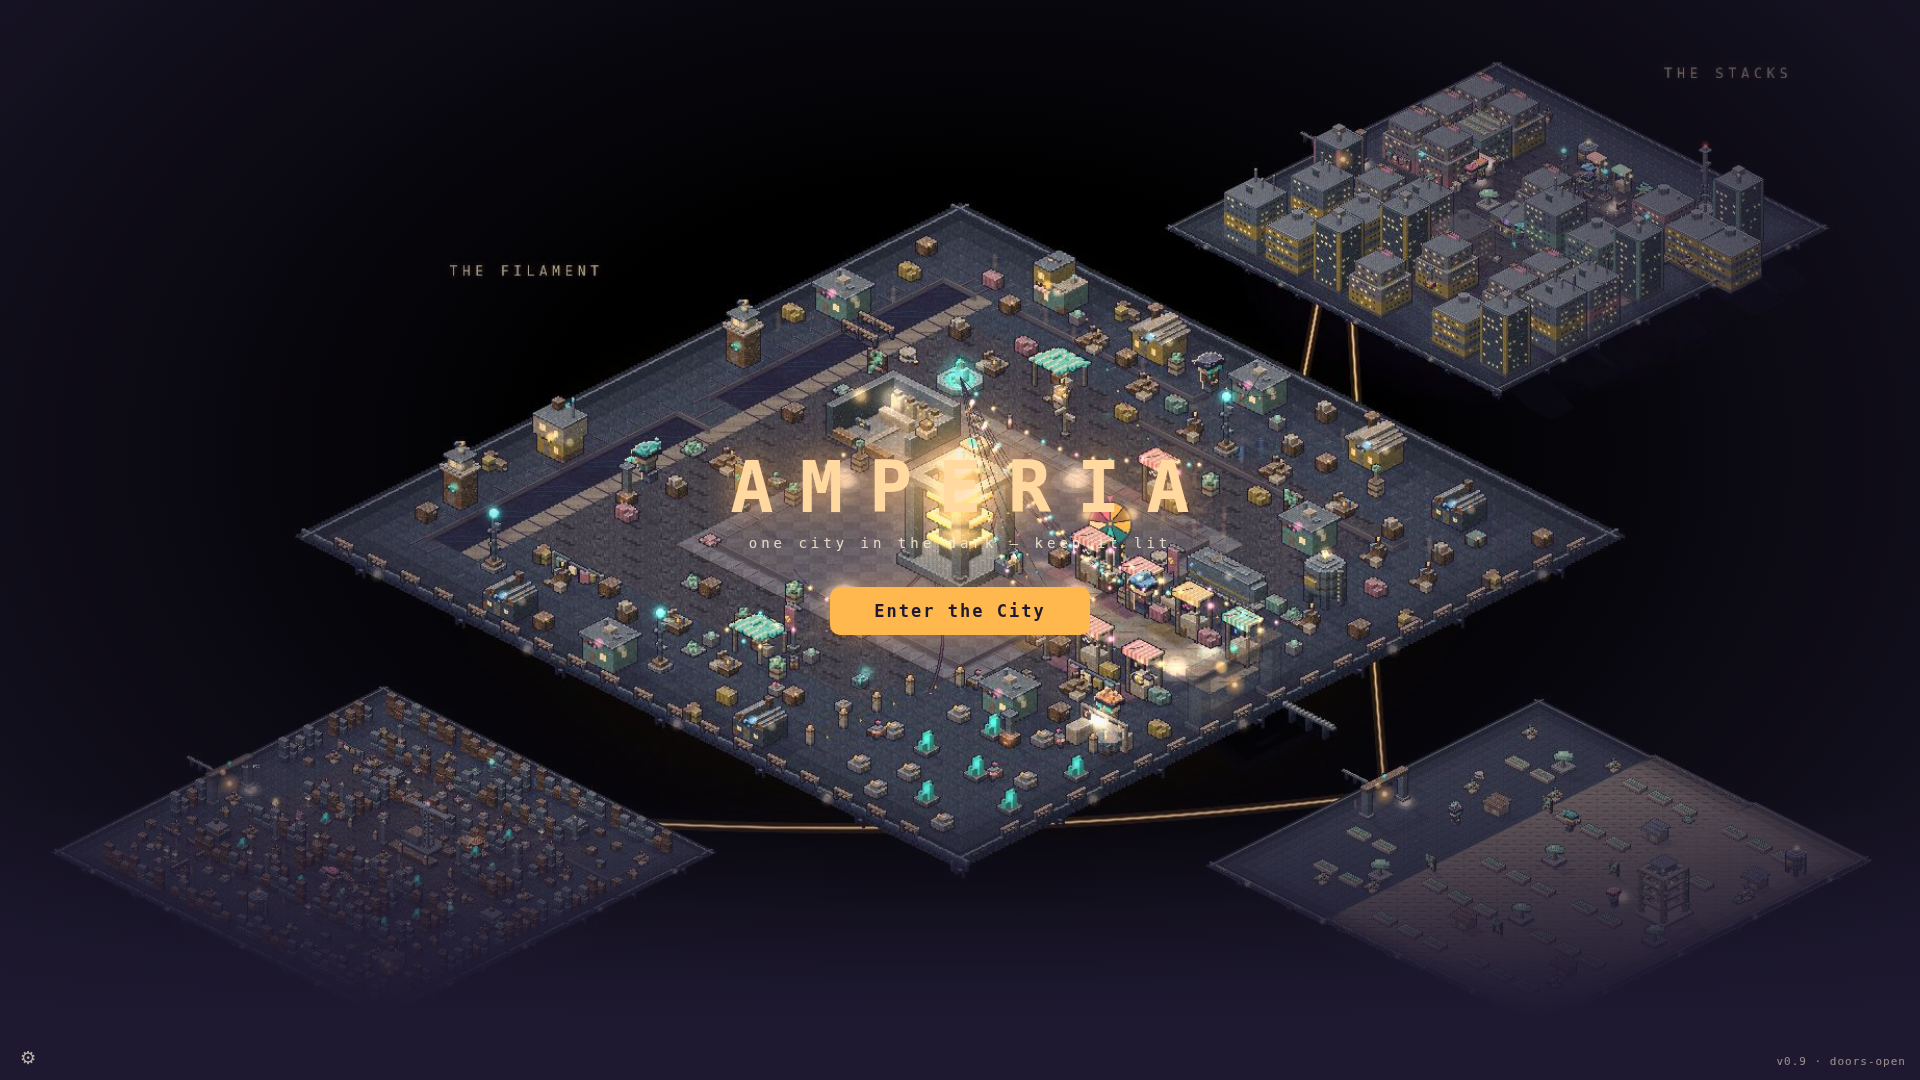
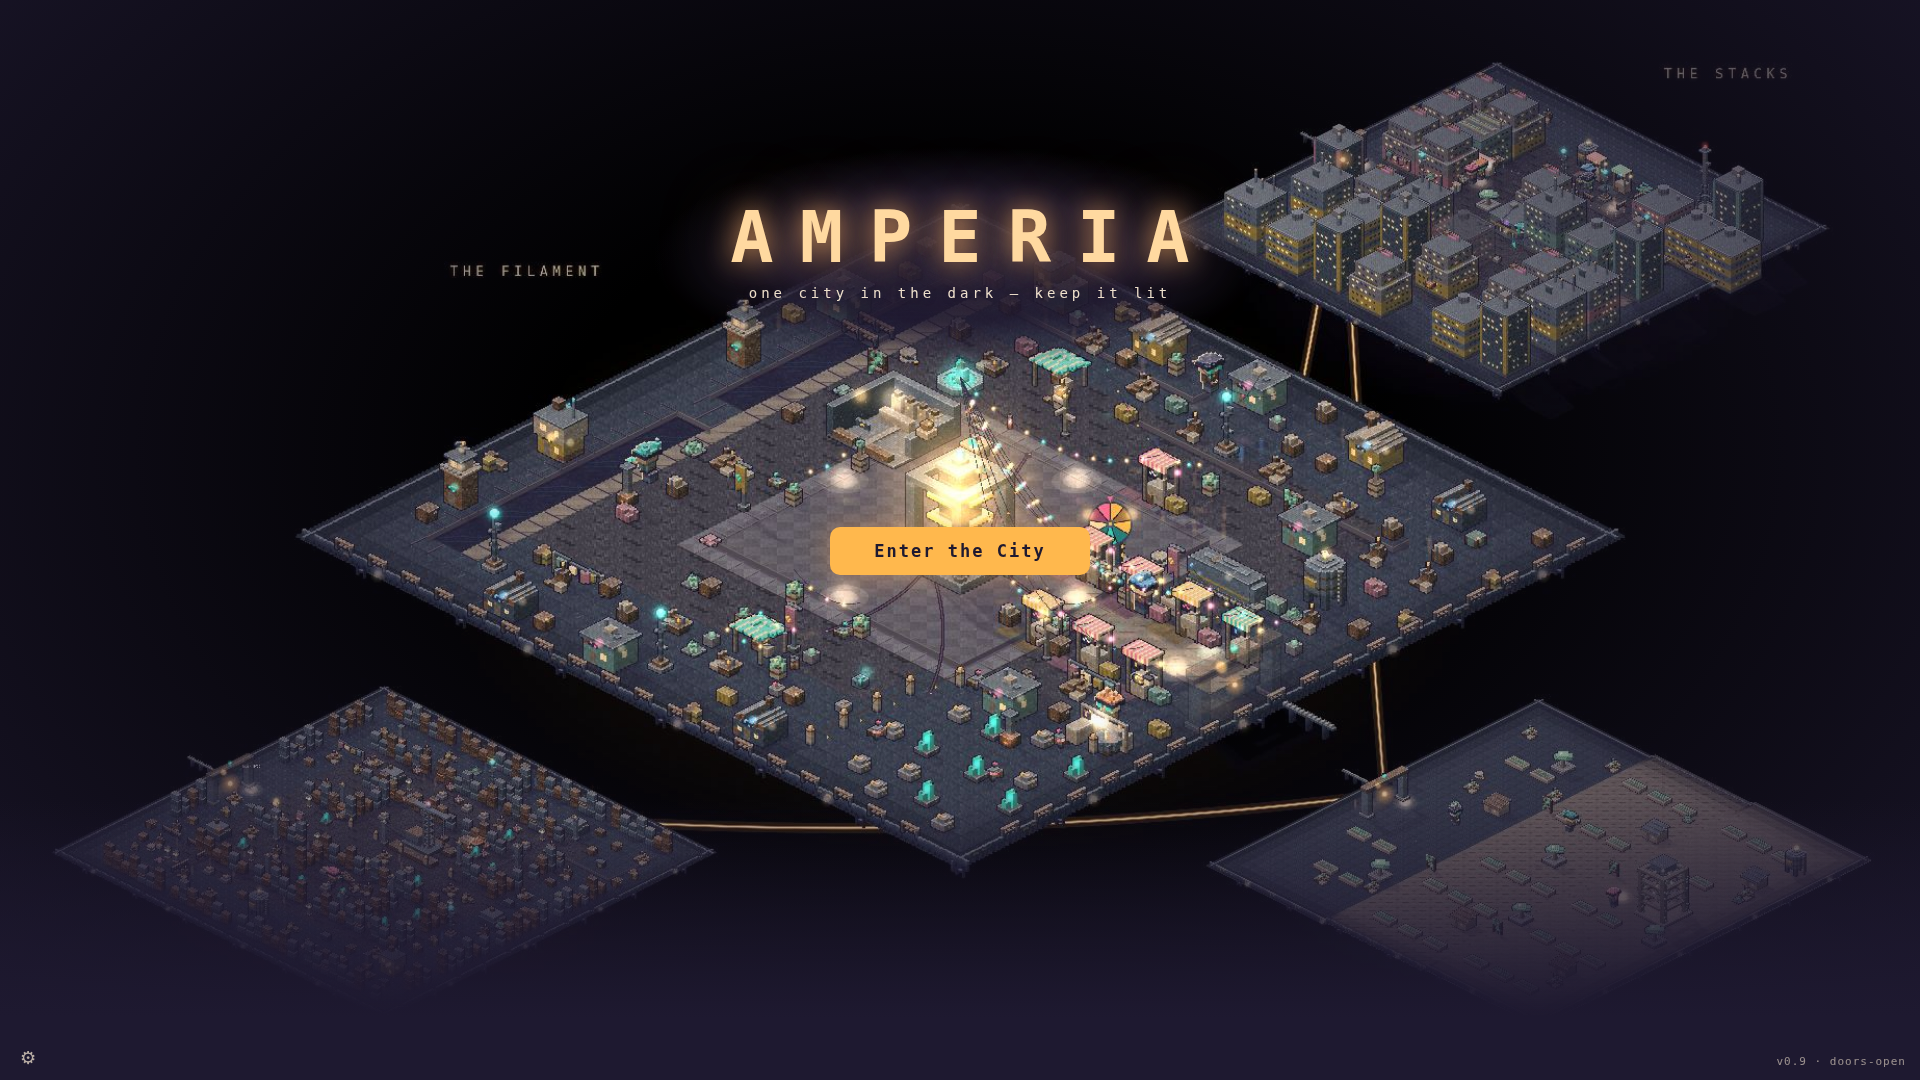
Title wordmark legibility + Roofline vista hero (closes the polish arc)
Title: the AMPERIA wordmark + tagline were vertically centred dead over
the Filament Dynamo's glow — the bright core washed the 'E' out ('AMP_RIA')
and drowned the tagline. Lift the wordmark into the dark void above the
islands with its own radial ink scrim behind it, so the hero reads clean
against dark like the landing page — whatever's behind it. The Enter
button + form stay centred. Reshot title.png.

Vista: restaged roofline-vista.png as a hero — the Spark posed at the
guardrail on the Roofline rim, framed dead-centre gazing out over the
rooftop market and the canyon streets falling away below.

Claude-Session: https://claude.ai/code/session_01XjNBm2pGRzkbLq2zekKpTV

Changed region(s): [[0.375, 0.3972, 0.625, 0.6111], [0.375, 0.1528, 0.625, 0.3361], [0.2812, 0.2444, 0.3125, 0.275]]

diff --git a/client/src/ui/loginOverlay.ts b/client/src/ui/loginOverlay.ts
@@ -67,6 +67,37 @@ export function showLoginOverlay(): Promise<AuthResponse> {
       `background:linear-gradient(to bottom, transparent, ${PALETTE.ink} 78%)`,
     ].join(';');
 
+    // The hero band: the wordmark + tagline ride UP in the dark void above
+    // the islands, never over the Dynamo's glow (which washed the 'E' out of
+    // AMPERIA and drowned the tagline). Its own dark scrim keeps the text
+    // clean against ink like the landing-page hero, whatever's behind it.
+    const hero = document.createElement('div');
+    hero.style.cssText = [
+      'position:absolute',
+      'left:0',
+      'right:0',
+      'top:0',
+      'height:46%',
+      'display:flex',
+      'flex-direction:column',
+      'align-items:center',
+      'justify-content:center',
+      'gap:10px',
+      'pointer-events:none',
+    ].join(';');
+    const heroScrim = document.createElement('div');
+    heroScrim.style.cssText = [
+      'position:absolute',
+      'left:50%',
+      'top:52%',
+      'transform:translate(-50%,-50%)',
+      'width:900px',
+      'max-width:96%',
+      'height:300px',
+      `background:radial-gradient(ellipse 46% 50% at 50% 50%, ${PALETTE.ink}F2 0%, ${PALETTE.ink}D9 42%, transparent 74%)`,
+      'pointer-events:none',
+    ].join(';');
+
     const center = document.createElement('div');
     center.style.cssText = [
       'position:absolute',
@@ -88,9 +119,11 @@ export function showLoginOverlay(): Promise<AuthResponse> {
       'text-indent:26px',
       'animation:amperia-glowpulse 5s ease-in-out infinite',
     ].join(';');
+    // Position over the scrim (both live in `hero`).
+    title.style.position = 'relative';
     const sub = document.createElement('div');
     sub.textContent = 'one city in the dark — keep it lit';
-    sub.style.cssText = `color:${UI_TEXT_WARM};opacity:.85;font-size:14px;letter-spacing:4px;margin-top:-8px;`;
+    sub.style.cssText = `position:relative;color:${UI_TEXT_WARM};opacity:.92;font-size:14px;letter-spacing:4px;margin-top:-4px;text-shadow:0 1px 6px ${PALETTE.ink};`;
 
     const enterBtn = document.createElement('button');
     enterBtn.textContent = 'Enter the City';
@@ -260,8 +293,9 @@ export function showLoginOverlay(): Promise<AuthResponse> {
       gearPanel.style.display = gearPanel.style.display === 'none' ? 'block' : 'none';
     };
 
-    center.append(title, sub, enterBtn, panel);
-    root.append(bg, shade, floor, center, gear, gearPanel, version);
+    hero.append(heroScrim, title, sub);
+    center.append(enterBtn, panel);
+    root.append(bg, shade, floor, hero, center, gear, gearPanel, version);
     document.head.append(styleEl);
     document.body.append(root);
   });